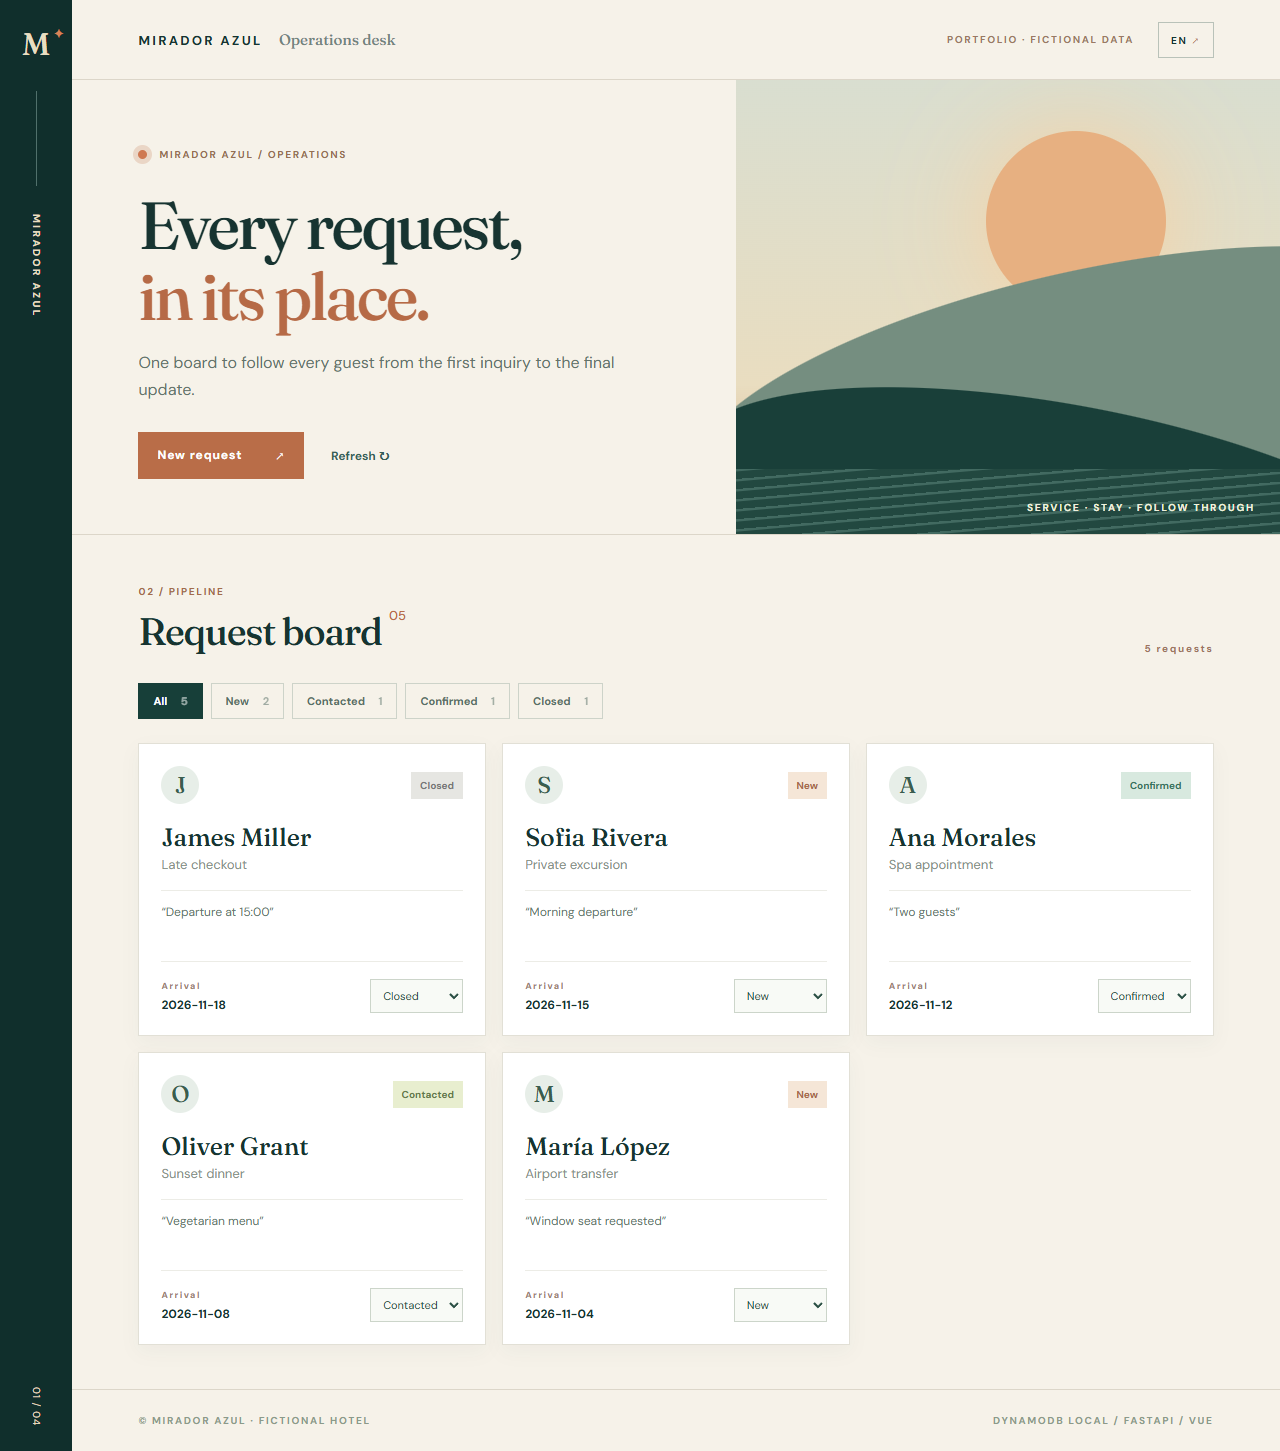
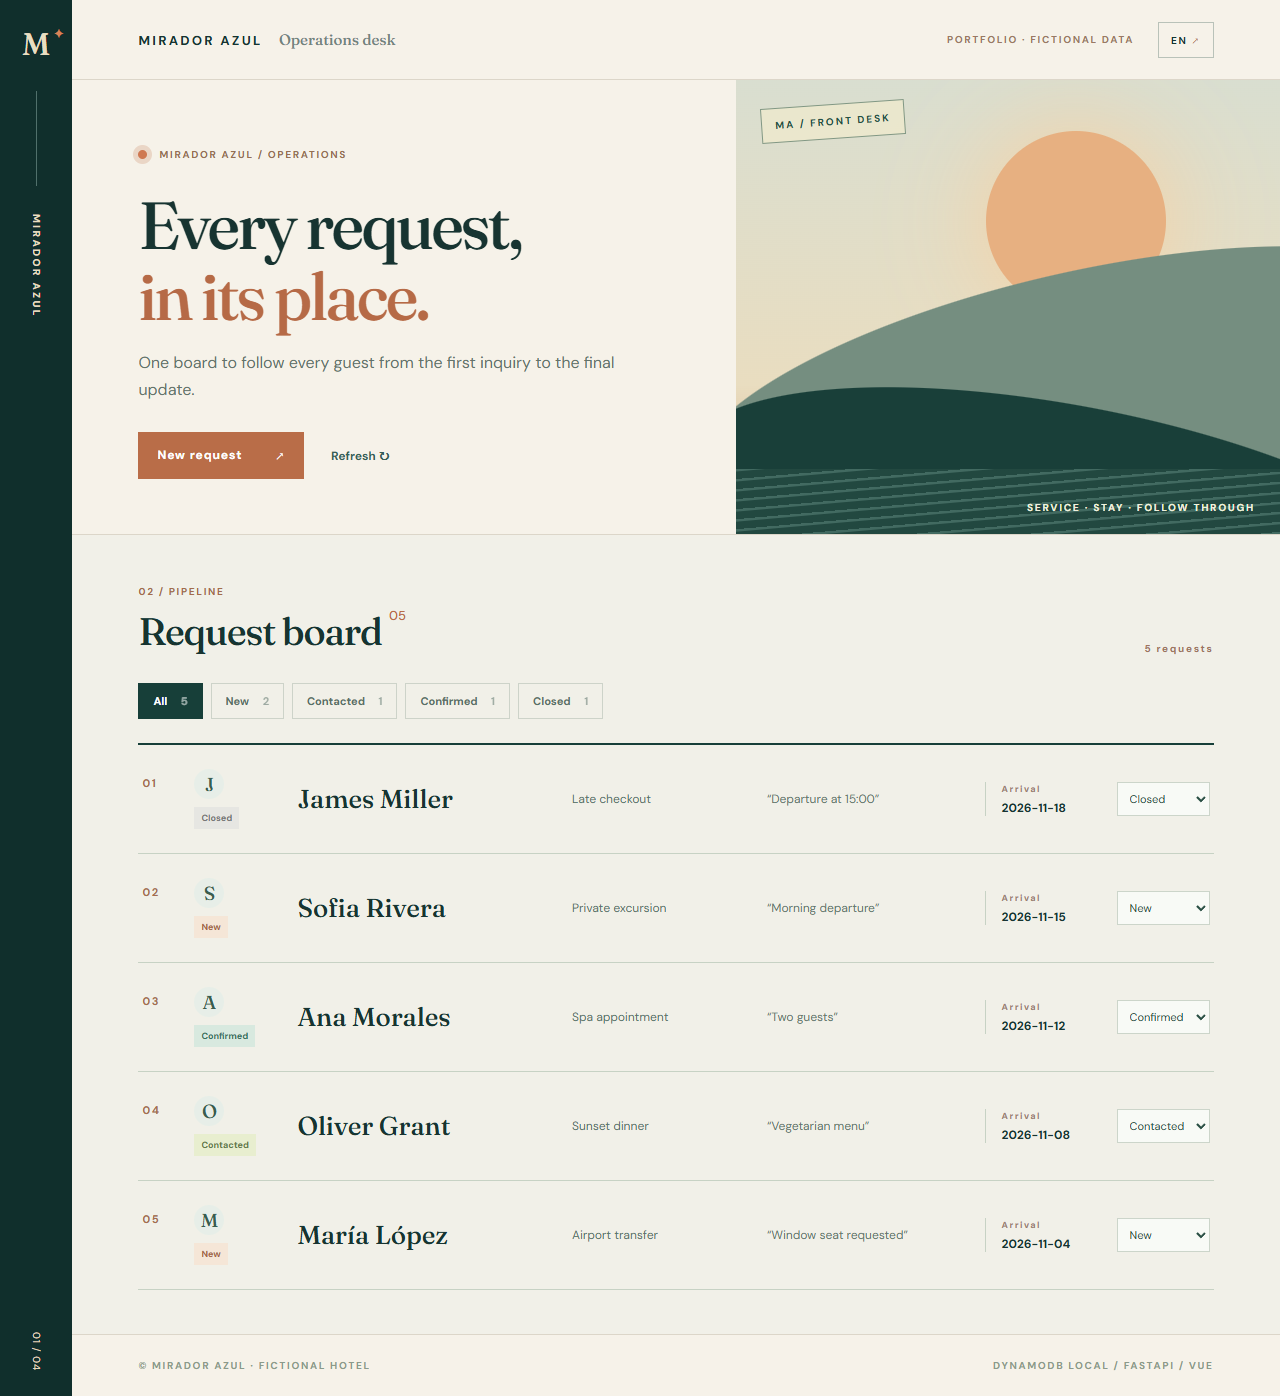
Polish bilingual operations desk and refresh previews

diff --git a/frontend/src/style.css b/frontend/src/style.css
@@ -1,3 +1,58 @@
 @import url('https://fonts.googleapis.com/css2?family=DM+Sans:wght@400;500;600;700&family=Fraunces:opsz,wght,SOFT,WONK@9..144,500,20,1;9..144,600,20,1&display=swap');
 :root{font-family:'DM Sans',sans-serif;color:#173431;background:#f6f2e9;font-synthesis:none}*{box-sizing:border-box}body{margin:0}button,input,select{font:inherit}button{cursor:pointer}.shell{display:grid;grid-template-columns:72px minmax(0,1fr);min-height:100vh}.rail{background:#102f2c;color:#e8dec1;display:flex;flex-direction:column;align-items:center;padding:25px 0;gap:28px}.mark{font-family:Fraunces,serif;font-size:31px;position:relative}.mark span{color:#d78358;font-size:13px;position:absolute;top:-1px;right:-14px}.rail-line{height:95px;width:1px;background:#50706b}.rail-label{writing-mode:vertical-rl;letter-spacing:.25em;font-size:10px;font-weight:700}.rail-index{margin-top:auto;font-size:10px;writing-mode:vertical-rl;letter-spacing:.1em}main{min-width:0}.topbar{min-height:80px;display:flex;align-items:center;justify-content:space-between;padding:0 5.5%;border-bottom:1px solid #dcd6c9}.wordmark{font-weight:700;letter-spacing:.18em;font-size:13px}.wordmark span{font-family:Fraunces,serif;font-style:italic;font-weight:500;letter-spacing:0;margin-left:11px;color:#72847d;font-size:15px}.top-actions{display:flex;gap:24px;align-items:center}.demo-tag,.locale,.eyebrow,small,.board-count,footer{font-size:10px;letter-spacing:.17em;font-weight:700}.demo-tag{color:#9a7964}.locale{border:1px solid #b9c2b9;background:transparent;padding:10px 12px;color:#173431}.locale span{color:#b16b49}.hero{display:grid;grid-template-columns:1.1fr .9fr;min-height:410px;border-bottom:1px solid #dcd6c9}.hero-copy{padding:68px 7% 55px 10%}.eyebrow{display:flex;align-items:center;gap:12px;color:#957052}.signal{width:9px;height:9px;background:#cf7952;border-radius:50%;box-shadow:0 0 0 5px #ead6c6}h1,h2,h3,p{margin:0}h1{font-family:Fraunces,serif;line-height:1.06;letter-spacing:-.04em;font-weight:500;font-size:clamp(47px,5.2vw,83px);margin:29px 0 18px}h1 em{color:#b66a46;font-weight:500}.hero-copy p{line-height:1.7;max-width:510px;color:#64736b}.hero-actions{display:flex;gap:21px;align-items:center;margin-top:29px}.primary{border:0;background:#b96d48;color:#fff;padding:15px 19px;display:inline-flex;gap:33px;justify-content:space-between;font-weight:700;font-size:12px;letter-spacing:.08em}.primary:hover{background:#965338}.primary:disabled{opacity:.5}.quiet{border:0;background:none;color:#355f57;font-size:12px;font-weight:700}.hero-visual{overflow:hidden;position:relative;background:linear-gradient(180deg,#d9ded0,#e9ddc0 67%,#d8ad87);min-height:410px}.sun{position:absolute;width:180px;height:180px;background:#e7b081;border-radius:50%;top:51px;right:21%;box-shadow:0 0 100px #f8d0a0}.ridge{position:absolute;width:145%;height:240px;left:-10%;border-radius:50% 50% 0 0}.ridge.one{background:#758e80;bottom:21px;transform:rotate(-13deg)}.ridge.two{background:#193f39;bottom:-113px;transform:rotate(11deg)}.water{position:absolute;bottom:0;width:100%;height:65px;background:repeating-linear-gradient(175deg,#426a61 0,#426a61 2px,#224840 3px,#224840 10px)}.visual-caption{position:absolute;bottom:20px;right:25px;color:#eff1de;font-size:10px;font-weight:700;letter-spacing:.18em}.alert{margin:24px 5.5%;padding:14px 18px;background:#f7dfd4;color:#8f3529;border-left:3px solid #c6684c}.form-card,.board{padding:44px 5.5%}.form-card{background:#eae9df;border-bottom:1px solid #d2d8ca}.section-heading{display:flex;align-items:end;justify-content:space-between;margin-bottom:28px}.section-heading small{color:#a36c4c}.section-heading h2{font-family:Fraunces,serif;font-weight:500;font-size:clamp(31px,3vw,43px);margin-top:7px;letter-spacing:-.03em}.section-heading h2 span{font-family:'DM Sans',sans-serif;font-size:13px;vertical-align:top;color:#b96d48;letter-spacing:0}.close{border:0;background:none;font-size:32px;color:#47665d}.form-grid{display:grid;grid-template-columns:repeat(4,1fr);gap:14px;margin-bottom:18px}.form-grid label{display:grid;gap:7px;font-size:11px;font-weight:700;color:#587067}.form-grid input{min-width:0;padding:12px;border:1px solid #bcc9c0;background:#fff;color:#173431;outline-color:#b96d48}.board{min-height:370px}.board-count{color:#9d745e}.tabs{display:flex;gap:8px;flex-wrap:wrap;margin-bottom:24px}.tabs button{border:1px solid #cdd3c9;background:transparent;color:#587067;padding:10px 14px;font-size:11px;font-weight:700}.tabs button span{margin-left:11px;opacity:.55}.tabs button.active{background:#173f39;border-color:#173f39;color:#fff}.cards{display:grid;grid-template-columns:repeat(3,minmax(0,1fr));gap:16px}.request-card{background:#fff;border:1px solid #e2e0d6;padding:22px;box-shadow:0 7px 19px #163d2a0a}.card-head,.card-footer{display:flex;align-items:center;justify-content:space-between}.card-symbol{height:38px;width:38px;display:grid;place-items:center;background:#e7eee8;border-radius:50%;font-family:Fraunces,serif;font-size:23px;color:#3a5d4f}.status{font-size:10px;font-weight:700;padding:7px 9px;background:#f5e6d7;color:#a76748}.status.contacted{background:#e8eecf;color:#657a4b}.status.confirmed{background:#d8e9df;color:#38725d}.status.closed{background:#e6e6e2;color:#777}.request-card h3{font-family:Fraunces,serif;font-weight:500;font-size:25px;margin:18px 0 4px}.request-card p{color:#879088;font-size:13px}.note{border-top:1px solid #ecece6;margin-top:17px;padding-top:13px;font-size:12px;color:#65776d;min-height:55px}.card-footer{border-top:1px solid #ecece6;margin-top:16px;padding-top:17px;gap:12px}.card-footer div{display:grid;gap:5px}.card-footer small{color:#9a8171;font-size:9px}.card-footer strong{font-size:12px}.card-footer select{border:1px solid #ccd5ca;background:#f8faf6;padding:8px;color:#294e43;font-size:11px;max-width:130px}.empty{display:grid;place-items:center;gap:10px;text-align:center;border:1px dashed #b9c9bb;color:#819284;padding:54px 20px;font-size:13px}.empty div{font-size:25px;color:#bf8164}footer{border-top:1px solid #dcd6c9;padding:24px 5.5%;display:flex;justify-content:space-between;color:#8c9a8a}.sr-only{position:absolute;width:1px;height:1px;padding:0;margin:-1px;overflow:hidden;clip:rect(0,0,0,0);white-space:nowrap;border:0}@media(max-width:1000px){.hero{grid-template-columns:1fr 38%}.hero-copy{padding-left:7%}.form-grid{grid-template-columns:repeat(2,1fr)}.cards{grid-template-columns:repeat(2,1fr)}}@media(max-width:670px){.shell{grid-template-columns:1fr}.rail{display:none}.topbar{padding:0 5%;min-height:67px}.wordmark span,.demo-tag{display:none}.hero{grid-template-columns:1fr}.hero-copy{padding:45px 6% 40px}.hero-visual{min-height:190px}.sun{width:120px;height:120px;top:20px}.ridge{height:160px}.form-card,.board{padding:36px 5%}.form-grid,.cards{grid-template-columns:1fr}footer{gap:12px;flex-wrap:wrap}h1{font-size:50px}}
 @media(max-width:670px){.sun{top:10px}.ridge.one{bottom:-43px}.ridge.two{bottom:-115px}}
+
+/* A front-desk ledger makes the request workflow readable at a glance. */
+.hero-visual::after {
+  content: 'MA / FRONT DESK';
+  position: absolute;
+  z-index: 2;
+  top: 24px;
+  left: 25px;
+  padding: 10px 13px;
+  border: 1px solid #f1f4dd99;
+  color: #f1f4dd;
+  font: 700 10px 'DM Sans', sans-serif;
+  letter-spacing: .2em;
+  transform: rotate(-4deg);
+}
+.board { background: #f1f0e8; }
+.cards { display: block; border-top: 2px solid #173f39; }
+.request-card {
+  display: grid;
+  grid-template-columns: 39px 104px minmax(140px, 1.2fr) minmax(120px, .9fr) minmax(120px, 1fr) 192px;
+  gap: 16px;
+  align-items: center;
+  padding: 24px 4px;
+  background: transparent;
+  border: 0;
+  border-bottom: 1px solid #c7d2c4;
+  box-shadow: none;
+}
+.request-card:hover { background: #e6ebe2; }
+.folio { align-self: start; padding-top: 7px; color: #a56d4e; font: 700 11px 'DM Sans', sans-serif; letter-spacing: .14em; }
+.card-head { display: flex; flex-direction: column; align-items: flex-start; gap: 8px; }
+.card-symbol { width: 30px; height: 30px; font-size: 19px; }
+.card-head .status { padding: 5px 7px; font-size: 9px; white-space: nowrap; }
+.request-card h3 { margin: 0; font-size: 26px; }
+.request-card p { font-size: 12px; color: #58746b; }
+.request-card .note { min-height: 0; margin: 0; padding: 0; border: 0; font-style: italic; }
+.request-card .card-footer { margin: 0; padding: 0 0 0 16px; border: 0; border-left: 1px solid #c7d2c4; }
+@media (max-width: 1100px) {
+  .cards { display: grid; grid-template-columns: repeat(2, minmax(0, 1fr)); gap: 13px; border: 0; }
+  .request-card { display: block; padding: 21px; background: #fff; border: 1px solid #d9ded4; }
+  .request-card .folio { display: block; margin-bottom: 10px; }
+  .request-card .card-head { flex-direction: row; align-items: center; justify-content: space-between; }
+  .request-card h3 { margin: 17px 0 4px; }
+  .request-card .note { margin-top: 15px; min-height: 45px; padding-top: 13px; border-top: 1px solid #e4e8e1; }
+  .request-card .card-footer { margin-top: 10px; padding: 15px 0 0; border: 0; border-top: 1px solid #e4e8e1; }
+}
+@media (max-width: 670px) {
+  .cards { grid-template-columns: 1fr; }
+  .hero-visual::after { top: 12px; left: 16px; }
+}
+@media (min-width: 1101px) {
+  .request-card { grid-template-columns: 39px 90px minmax(140px, 1.15fr) minmax(100px, .8fr) minmax(100px, .9fr) 225px; gap: 13px; }
+  .request-card .card-footer strong { white-space: nowrap; }
+}
+.hero-visual::after { color: #245044; border-color: #24504488; background: #f0eaccbb; }

diff --git a/frontend/src/App.vue b/frontend/src/App.vue
@@ -59,7 +59,7 @@ onMounted(load)
       <section class="hero"><div class="hero-copy"><div class="eyebrow"><span class="signal"></span>{{ copy.eyebrow }}</div><h1>{{ copy.title }}<br><em>{{ copy.title2 }}</em></h1><p>{{ copy.subtitle }}</p><div class="hero-actions"><button class="primary" @click="formOpen = !formOpen">{{ copy.new }} <span>↗</span></button><button class="quiet" @click="load">{{ copy.refresh }} ↻</button></div></div><div class="hero-visual" aria-hidden="true"><div class="sun"></div><div class="ridge one"></div><div class="ridge two"></div><div class="water"></div><div class="visual-caption">SERVICE · STAY · FOLLOW THROUGH</div></div></section>
       <div v-if="error" role="alert" class="alert">{{ error }}</div>
       <section v-if="formOpen" class="form-card"><div class="section-heading"><div><small>01 / CAPTURE</small><h2>{{ copy.new }}</h2></div><button class="close" aria-label="Close" @click="formOpen = false">×</button></div><form @submit.prevent="create"><div class="form-grid"><label>{{ copy.guest }}<input v-model.trim="form.guest" required minlength="2" maxlength="80" placeholder="María López"></label><label>{{ copy.service }}<input v-model.trim="form.service" required minlength="2" maxlength="80" placeholder="Airport transfer"></label><label>{{ copy.arrival }}<input v-model="form.arrival" required type="date"></label><label>{{ copy.note }}<input v-model.trim="form.note" maxlength="240" placeholder="Optional"></label></div><button class="primary" :disabled="busy">{{ copy.create }} <span>↗</span></button></form></section>
-      <section class="board"><div class="section-heading"><div><small>02 / PIPELINE</small><h2>{{ copy.board }} <span>{{ requests.length.toString().padStart(2, '0') }}</span></h2></div><div class="board-count">{{ visible.length }} {{ copy.requests }}</div></div><div class="tabs" role="tablist"><button v-for="key in ['all', ...statuses]" :key="key" :class="{ active: filter === key }" role="tab" :aria-selected="filter === key" @click="filter = key">{{ key === 'all' ? copy.all : copy.statuses[key] }} <span>{{ key === 'all' ? requests.length : requests.filter(item => item.status === key).length }}</span></button></div><div v-if="!visible.length" class="empty"><div>✦</div>{{ copy.empty }}</div><div v-else class="cards"><article v-for="item in visible" :key="item.request_id" class="request-card"><div class="card-head"><div class="card-symbol">{{ item.guest.slice(0, 1).toUpperCase() }}</div><span class="status" :class="item.status">{{ copy.statuses[item.status] }}</span></div><h3>{{ item.guest }}</h3><p>{{ item.service }}</p><div v-if="item.note" class="note">“{{ item.note }}”</div><div class="card-footer"><div><small>{{ copy.date }}</small><strong>{{ item.arrival }}</strong></div><label><span class="sr-only">{{ copy.status }}</span><select :value="item.status" :disabled="busy" @change="changeStatus(item, $event.target.value)"><option v-for="status in statuses" :key="status" :value="status">{{ copy.statuses[status] }}</option></select></label></div></article></div></section>
+      <section class="board"><div class="section-heading"><div><small>02 / PIPELINE</small><h2>{{ copy.board }} <span>{{ requests.length.toString().padStart(2, '0') }}</span></h2></div><div class="board-count">{{ visible.length }} {{ copy.requests }}</div></div><div class="tabs" role="tablist"><button v-for="key in ['all', ...statuses]" :key="key" :class="{ active: filter === key }" role="tab" :aria-selected="filter === key" @click="filter = key">{{ key === 'all' ? copy.all : copy.statuses[key] }} <span>{{ key === 'all' ? requests.length : requests.filter(item => item.status === key).length }}</span></button></div><div v-if="!visible.length" class="empty"><div>✦</div>{{ copy.empty }}</div><div v-else class="cards"><article v-for="(item, index) in visible" :key="item.request_id" class="request-card"><span class="folio">{{ String(index + 1).padStart(2, "0") }}</span><div class="card-head"><div class="card-symbol">{{ item.guest.slice(0, 1).toUpperCase() }}</div><span class="status" :class="item.status">{{ copy.statuses[item.status] }}</span></div><h3>{{ item.guest }}</h3><p>{{ item.service }}</p><div v-if="item.note" class="note">“{{ item.note }}”</div><div class="card-footer"><div><small>{{ copy.date }}</small><strong>{{ item.arrival }}</strong></div><label><span class="sr-only">{{ copy.status }}</span><select :value="item.status" :disabled="busy" @change="changeStatus(item, $event.target.value)"><option v-for="status in statuses" :key="status" :value="status">{{ copy.statuses[status] }}</option></select></label></div></article></div></section>
       <footer><span>© MIRADOR AZUL · FICTIONAL HOTEL</span><span>DYNAMODB LOCAL / FASTAPI / VUE</span></footer>
     </main>
   </div>

diff --git a/README.md b/README.md
@@ -19,7 +19,7 @@ The screenshots also include [Spanish](docs/screenshots/operations-desk-es.png) 
 Python 3.10+, Node 20+, Java 17+, and an internet connection for the first dependency and DynamoDB Local download. Docker and AWS credentials are **not** required. [AWS documents DynamoDB Local as a free local development tool](https://docs.aws.amazon.com/amazondynamodb/latest/developerguide/DynamoDBLocal.DownloadingAndRunning.html).
 
 ```powershell
-cd C:\Proyectos\YuJu\Code\hotel-ops-dynamodb-demo
+# From the cloned repository root
 python -m venv .venv
 .\.venv\Scripts\python -m pip install -r requirements.txt
 New-Item -ItemType Directory -Force .local | Out-Null
@@ -33,7 +33,7 @@ Open **three terminals**:
 
 ```powershell
 # Terminal 1: DynamoDB Local
-cd C:\Proyectos\YuJu\Code\hotel-ops-dynamodb-demo\.local\dynamodb
+cd .local\dynamodb
 java "-Djava.library.path=./DynamoDBLocal_lib" -jar DynamoDBLocal.jar -sharedDb -port 8008
 ```
 
